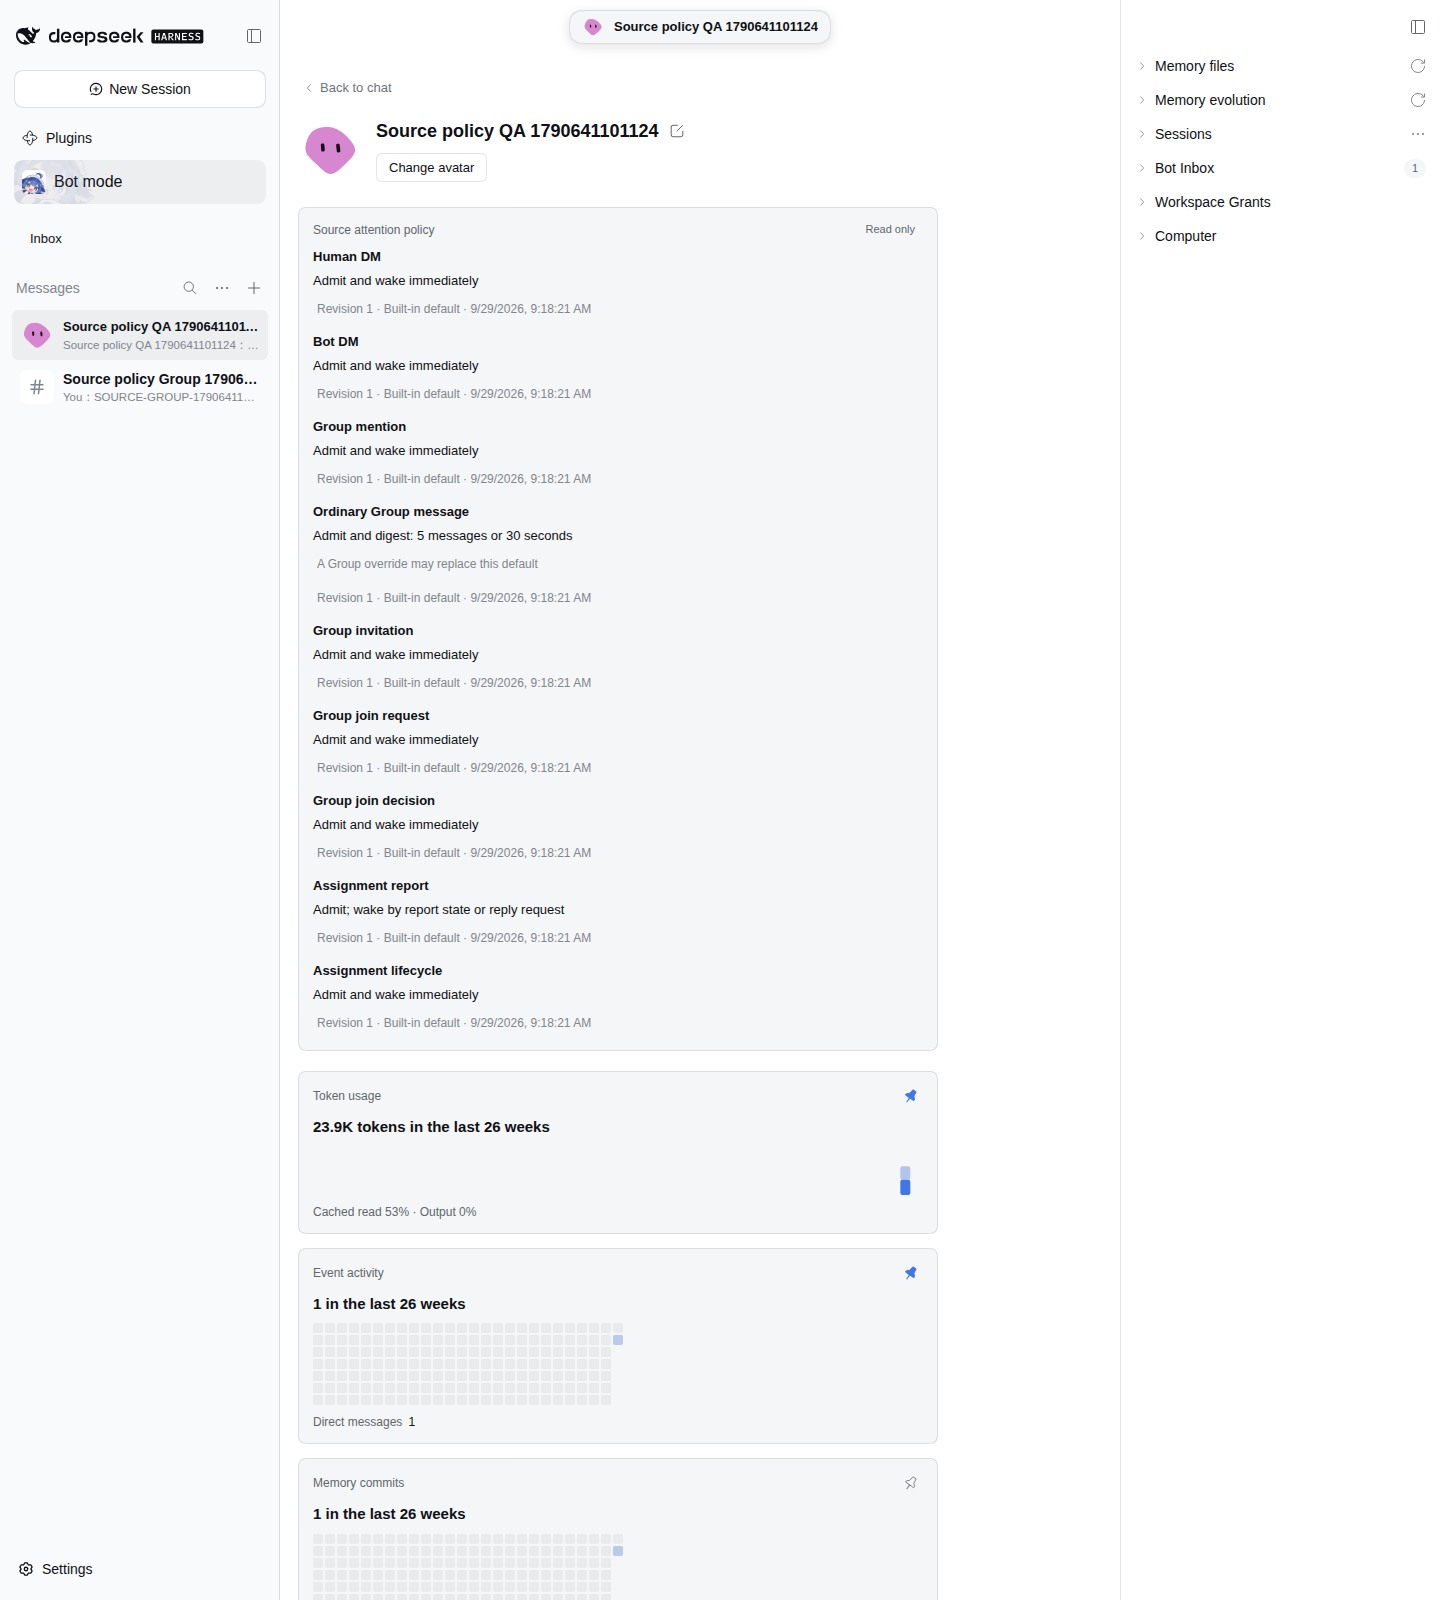
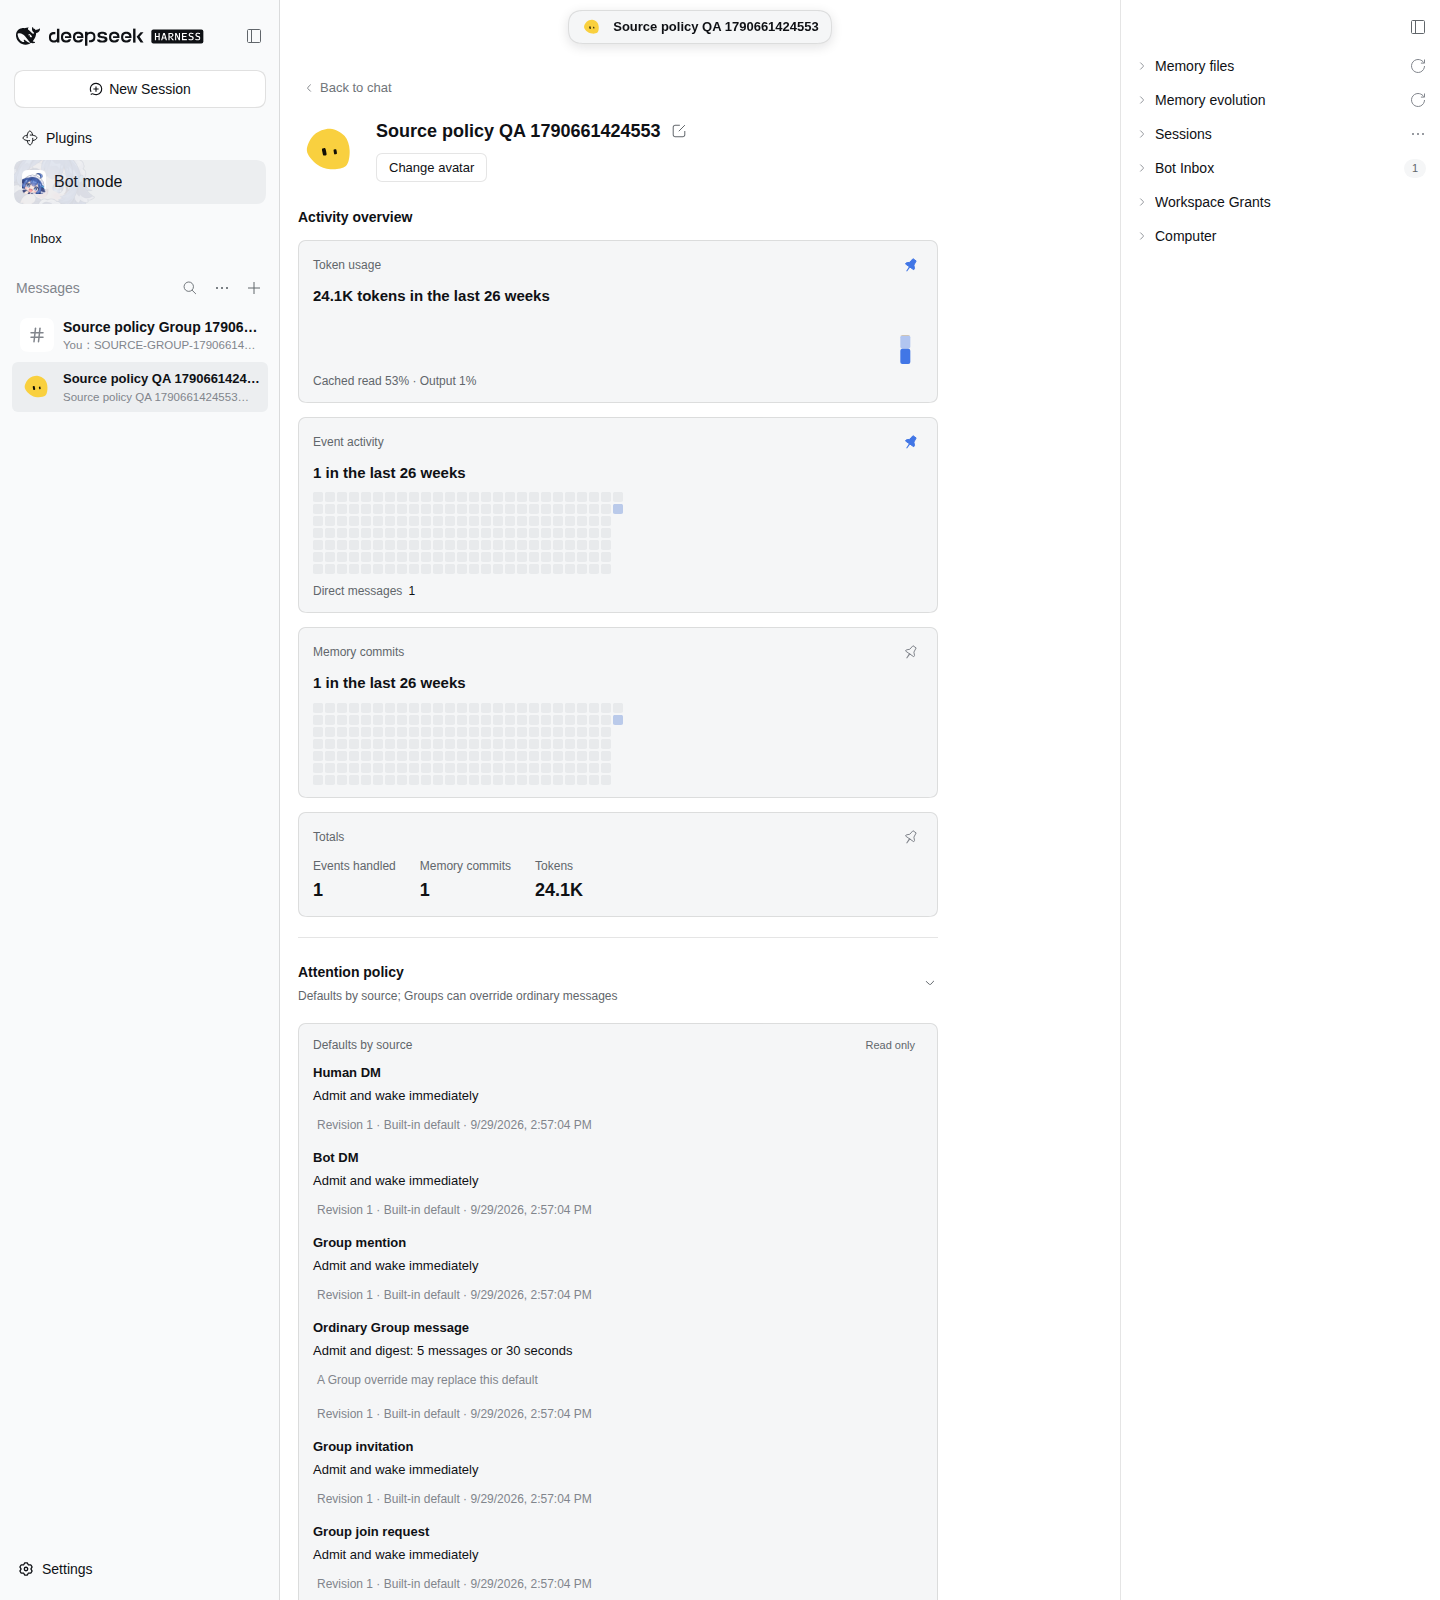
Place source policy below Profile activity
Issue: #366

Agent-Task: codex/local/01a0e445-0c0f-70e1-bad4-fd99c8cfaa21

diff --git a/packages/client/src/client/personabot-profile.tsx b/packages/client/src/client/personabot-profile.tsx
@@ -135,6 +135,7 @@ export function ProfileView({
   const trimmed = draft.trim();
   const blank = trimmed.length === 0;
   const unchanged = trimmed === bot.displayName.trim();
+  const visibleCards = cards.list().filter((card) => card.visible?.(bot) ?? true);
 
   useEffect(() => {
     let active = true;
@@ -309,67 +310,11 @@ export function ProfileView({
           )}
         </div>
       </div>
-      <div className="bh-profile-cards">
-        <section className="bh-profile-card" aria-label={t('sourcePolicy.title')}>
-          <header className="bh-profile-card-head">
-            <span className="bh-profile-card-label">{t('sourcePolicy.title')}</span>
-            <Tag tone="neutral">{t('sourcePolicy.readOnly')}</Tag>
-          </header>
-          {sourcePolicyError ? (
-            <div className="bh-error" role="alert">
-              {t('sourcePolicy.error')}
-            </div>
-          ) : sourcePolicies === undefined ? (
-            <div className="bh-note">{t('sourcePolicy.loading')}</div>
-          ) : (
-            sourcePolicies.map((policy) => (
-              <div key={policy.sourceClass} className="bh-source-policy-row">
-                <strong>
-                  {
-                    {
-                      'human-dm': t('sourcePolicy.humanDm'),
-                      'bot-dm': t('sourcePolicy.botDm'),
-                      'group-mention': t('sourcePolicy.groupMention'),
-                      'group-ordinary': t('sourcePolicy.groupOrdinary'),
-                      'group-invite': t('sourcePolicy.groupInvite'),
-                      'group-join-request': t('sourcePolicy.groupJoinRequest'),
-                      'group-join-decision': t('sourcePolicy.groupJoinDecision'),
-                      'assignment-report': t('sourcePolicy.assignmentReport'),
-                      'assignment-lifecycle': t('sourcePolicy.assignmentLifecycle'),
-                    }[policy.sourceClass]
-                  }
-                </strong>
-                <span>
-                  {policy.wake === 'digest'
-                    ? t('sourcePolicy.admitDigest', {
-                        count: policy.digestCount ?? 0,
-                        seconds: policy.digestIntervalSeconds ?? 0,
-                      })
-                    : policy.wake === 'conditional'
-                      ? t('sourcePolicy.admitConditional')
-                      : t('sourcePolicy.admitImmediate')}
-                </span>
-                {policy.sourceClass === 'group-ordinary' && (
-                  <span className="bh-note">{t('sourcePolicy.groupOverride')}</span>
-                )}
-                <span className="bh-note">
-                  {t('sourcePolicy.revision', { revision: policy.revision })}
-                  {' · '}
-                  {t('sourcePolicy.builtIn')}
-                  {' · '}
-                  {new Date(policy.changedAt).toLocaleString()}
-                </span>
-              </div>
-            ))
-          )}
-        </section>
-      </div>
-      {cards.list().filter((card) => card.visible?.(bot) ?? true).length === 0 ? null : (
-        <div className="bh-profile-cards">
-          {cards
-            .list()
-            .filter((card) => card.visible?.(bot) ?? true)
-            .map((card) => {
+      {visibleCards.length === 0 ? null : (
+        <section className="bh-profile-section" aria-label={t('profile.activitySection')}>
+          <h2 className="bh-profile-section-title">{t('profile.activitySection')}</h2>
+          <div className="bh-profile-cards">
+            {visibleCards.map((card) => {
               const isPinned = pinned.includes(card.id);
               return (
                 <section key={card.id} className="bh-profile-card">
@@ -389,8 +334,78 @@ export function ProfileView({
                 </section>
               );
             })}
-        </div>
+          </div>
+        </section>
       )}
+      <section
+        className="bh-profile-section bh-profile-policy-section"
+        aria-label={t('sourcePolicy.title')}
+      >
+        <details className="bh-profile-policy-details">
+          <summary className="bh-profile-policy-summary">
+            <span className="bh-profile-policy-summary-text">
+              <strong>{t('sourcePolicy.title')}</strong>
+              <span>{t('sourcePolicy.summary')}</span>
+            </span>
+            <IconChevronRightOutlineRegular />
+          </summary>
+          <div className="bh-profile-cards">
+            <section className="bh-profile-card" aria-label={t('sourcePolicy.defaults')}>
+              <header className="bh-profile-card-head">
+                <span className="bh-profile-card-label">{t('sourcePolicy.defaults')}</span>
+                <Tag tone="neutral">{t('sourcePolicy.readOnly')}</Tag>
+              </header>
+              {sourcePolicyError ? (
+                <div className="bh-error" role="alert">
+                  {t('sourcePolicy.error')}
+                </div>
+              ) : sourcePolicies === undefined ? (
+                <div className="bh-note">{t('sourcePolicy.loading')}</div>
+              ) : (
+                sourcePolicies.map((policy) => (
+                  <div key={policy.sourceClass} className="bh-source-policy-row">
+                    <strong>
+                      {
+                        {
+                          'human-dm': t('sourcePolicy.humanDm'),
+                          'bot-dm': t('sourcePolicy.botDm'),
+                          'group-mention': t('sourcePolicy.groupMention'),
+                          'group-ordinary': t('sourcePolicy.groupOrdinary'),
+                          'group-invite': t('sourcePolicy.groupInvite'),
+                          'group-join-request': t('sourcePolicy.groupJoinRequest'),
+                          'group-join-decision': t('sourcePolicy.groupJoinDecision'),
+                          'assignment-report': t('sourcePolicy.assignmentReport'),
+                          'assignment-lifecycle': t('sourcePolicy.assignmentLifecycle'),
+                        }[policy.sourceClass]
+                      }
+                    </strong>
+                    <span>
+                      {policy.wake === 'digest'
+                        ? t('sourcePolicy.admitDigest', {
+                            count: policy.digestCount ?? 0,
+                            seconds: policy.digestIntervalSeconds ?? 0,
+                          })
+                        : policy.wake === 'conditional'
+                          ? t('sourcePolicy.admitConditional')
+                          : t('sourcePolicy.admitImmediate')}
+                    </span>
+                    {policy.sourceClass === 'group-ordinary' && (
+                      <span className="bh-note">{t('sourcePolicy.groupOverride')}</span>
+                    )}
+                    <span className="bh-note">
+                      {t('sourcePolicy.revision', { revision: policy.revision })}
+                      {' · '}
+                      {t('sourcePolicy.builtIn')}
+                      {' · '}
+                      {new Date(policy.changedAt).toLocaleString()}
+                    </span>
+                  </div>
+                ))
+              )}
+            </section>
+          </div>
+        </details>
+      </section>
       {avatarFile === undefined ? null : (
         <PersonaBotAvatarCropModal
           file={avatarFile}

diff --git a/packages/client/src/client/styles.ts b/packages/client/src/client/styles.ts
@@ -1714,6 +1714,66 @@ html[data-botharness-motion='full'] .bh-skeleton-line {
   margin-top: 20px;
   max-width: 640px;
 }
+.bh-profile-section {
+  max-width: 640px;
+  margin-top: 20px;
+}
+.bh-profile-section-title {
+  margin: 0 0 12px;
+  color: var(--dsw-alias-label-primary);
+  font-size: 14px;
+  font-weight: 600;
+}
+.bh-profile-section .bh-profile-cards {
+  margin-top: 0;
+}
+.bh-profile-policy-section {
+  padding-top: 20px;
+  border-top: 1px solid var(--dsw-alias-border-l2);
+}
+.bh-profile-policy-summary {
+  display: flex;
+  align-items: center;
+  justify-content: space-between;
+  gap: 12px;
+  padding: 4px 0;
+  list-style: none;
+  cursor: pointer;
+}
+.bh-profile-policy-summary::-webkit-details-marker {
+  display: none;
+}
+.bh-profile-policy-summary:focus-visible {
+  border-radius: 6px;
+  outline: 2px solid var(--dsw-alias-label-primary);
+  outline-offset: 3px;
+}
+.bh-profile-policy-summary-text {
+  display: flex;
+  flex-direction: column;
+  gap: 4px;
+}
+.bh-profile-policy-summary-text strong {
+  color: var(--dsw-alias-label-primary);
+  font-size: 14px;
+}
+.bh-profile-policy-summary-text span {
+  color: var(--dsw-alias-label-secondary);
+  font-size: 12px;
+}
+.bh-profile-policy-summary > svg {
+  flex: none;
+  width: 16px;
+  height: 16px;
+  color: var(--dsw-alias-label-secondary);
+  transition: transform 150ms ease;
+}
+.bh-profile-policy-details[open] .bh-profile-policy-summary > svg {
+  transform: rotate(90deg);
+}
+.bh-profile-policy-details > .bh-profile-cards {
+  margin-top: 14px;
+}
 .bh-profile-card {
   display: flex;
   flex-direction: column;

diff --git a/packages/client/src/client/locale.ts b/packages/client/src/client/locale.ts
@@ -255,7 +255,10 @@ export const zh = {
   'profile.name.edit': '编辑名称',
   'profile.save': '保存',
   'profile.renameFailed': '重命名失败，请重试。',
-  'sourcePolicy.title': '来源提醒策略',
+  'profile.activitySection': '活动概览',
+  'sourcePolicy.title': '提醒策略',
+  'sourcePolicy.summary': '按来源设置默认值；群聊可单独覆盖普通消息提醒',
+  'sourcePolicy.defaults': '按来源的默认规则',
   'sourcePolicy.readOnly': '只读',
   'sourcePolicy.humanDm': 'Human 私聊',
   'sourcePolicy.botDm': 'Bot 私聊',
@@ -860,7 +863,10 @@ export const en = {
   'profile.name.edit': 'Edit name',
   'profile.save': 'Save',
   'profile.renameFailed': 'Rename failed. Try again.',
-  'sourcePolicy.title': 'Source attention policy',
+  'profile.activitySection': 'Activity overview',
+  'sourcePolicy.title': 'Attention policy',
+  'sourcePolicy.summary': 'Defaults by source; Groups can override ordinary messages',
+  'sourcePolicy.defaults': 'Defaults by source',
   'sourcePolicy.readOnly': 'Read only',
   'sourcePolicy.humanDm': 'Human DM',
   'sourcePolicy.botDm': 'Bot DM',

diff --git a/packages/client/test/personabot-profile.test.ts b/packages/client/test/personabot-profile.test.ts
@@ -176,6 +176,16 @@ describe('PersonaBot Profile surface', () => {
       await act(async () => click(container, '.bh-profile-expand'));
       expect(container.querySelector('.bh-profile-popover')).toBeNull();
       expect(container.querySelector('.bh-profile-view')).not.toBeNull();
+      const sections = container.querySelectorAll('.bh-profile-view > .bh-profile-section');
+      expect(sections.length).toBe(2);
+      expect(sections[0]?.getAttribute('aria-label')).toBe('活动概览');
+      expect(sections[1]?.getAttribute('aria-label')).toBe('提醒策略');
+      const policyDetails = container.querySelector<HTMLDetailsElement>(
+        '.bh-profile-policy-details',
+      );
+      expect(policyDetails?.open).toBe(false);
+      await act(async () => click(container, '.bh-profile-policy-summary'));
+      expect(policyDetails?.open).toBe(true);
       expect(container.querySelector('.bh-profile-view')?.textContent).toContain('Human 私聊');
       expect(container.querySelector('.bh-profile-view')?.textContent).toContain('修订 1');
       expect(container.querySelector('.bh-chat-body')).toBeNull();

diff --git a/CHANGELOG.md b/CHANGELOG.md
@@ -14,7 +14,7 @@ Advances the first PersonaBot workflow with Assignment delivery, shared motion c
 - A PersonaBot can act on the shared Computer once the Human turns on its Computer Access: a curated observe/act/verify tool set with guidance is injected only into that PersonaBot's sessions, the first action of a session asks the Human once (a profile switch can auto-allow), and every observation and action is recorded as a redacted Computer Audit entry ([#386](https://github.com/BotHarness/BotHarness/issues/386), [ADR-0079](docs/adr/0079-adopt-official-computer-use-seam-with-own-provider.md), [ADR-0080](docs/adr/0080-computer-access-is-per-personabot-authorization-is-session-scoped.md)).
 - Group Channels keep the member roster separate from Group settings. Humans can crop a square WebP Group image, rename the Group, search for a PersonaBot to invite, handle pending invitations and join requests in a notification dialog, and manage each member through a menu for message policy or removal, and disband the Group from a secondary menu, with its avatar shown in ordinary, pinned, and collapsed navigation ([#390](https://github.com/BotHarness/BotHarness/issues/390)).
 - A joined PersonaBot can read and change its own Group attention preference with Orchestrator Tools; Human and Bot edits share the same Channel value and leave attributable revision history, while previously admitted messages keep their original policy snapshot ([#365](https://github.com/BotHarness/BotHarness/issues/365)).
-- A PersonaBot Profile now shows all built-in source-class attention defaults and their durable revision source; new Channel and Assignment admissions record the effective source revision while retaining immediate, Group digest, and conditional report delivery ([#366](https://github.com/BotHarness/BotHarness/issues/366)).
+- A PersonaBot Profile now places a collapsible source-class policy section below its activity charts, showing all built-in attention defaults and their durable revision source; new Channel and Assignment admissions record the effective source revision while retaining immediate, Group digest, and conditional report delivery ([#366](https://github.com/BotHarness/BotHarness/issues/366)).
 
 - Group Channel members can choose whether a PersonaBot sees every ordinary message immediately, receives a digest, only wakes for direct mentions, or records messages silently. A direct mention carries bounded pending context from the same Channel, including the oldest unread and nearby messages; the prompt reports omitted messages and later turns advance through the backlog. Explicitly read messages become Processing and settle as Handled on a successful turn or Needs repair on failure; unreturned messages stay pending. New members default to a digest, and a Group member or Bot message avatar opens that Bot's DM ([#364](https://github.com/BotHarness/BotHarness/issues/364)).
 

diff --git a/CHANGELOG.zh.md b/CHANGELOG.zh.md
@@ -14,7 +14,7 @@
 - Human 开启某个 PersonaBot 的 Computer Access 后，该 Bot 即可操作共享 Computer：精选的观察/动作/验证工具集与其指引只注入这个 Bot 的会话；每个会话的首次动作向 Human 询问一次（profile 开关可自动允许）；每次观察与动作都以脱敏的 Computer Audit 记录（[#386](https://github.com/BotHarness/BotHarness/issues/386)、[ADR-0079](docs/adr/0079-adopt-official-computer-use-seam-with-own-provider.md)、[ADR-0080](docs/adr/0080-computer-access-is-per-personabot-authorization-is-session-scoped.md)）。
 - 群聊 Channel 现将成员名单与群设置分开。Human 可裁切正方形 WebP 群头像、改群名、搜索并邀请 PersonaBot，在通知弹窗处理待办邀请和入群申请，并通过成员菜单调整消息提醒策略或移出成员，并从次级菜单解散群聊；群头像在普通、置顶和折叠侧栏中一致显示（[#390](https://github.com/BotHarness/BotHarness/issues/390)）。
 - 已入群的 PersonaBot 可通过 Orchestrator 工具读取及修改自己的群聊提醒偏好；Human 与 Bot 共用同一 Channel 当前值，修改留下可追溯的修订历史，已入队消息继续保留原策略快照（[#365](https://github.com/BotHarness/BotHarness/issues/365)）。
-- PersonaBot 资料页现在显示所有内建来源类别的提醒默认规则及其持久修订来源；新 Channel 与 Assignment 待办记录所用来源规则修订，同时保持即时送达、群消息汇总和报告条件唤醒的既有行为（[#366](https://github.com/BotHarness/BotHarness/issues/366)）。
+- PersonaBot 资料页现在将可折叠的来源策略放在活动图表下方，展示所有内建来源类别的提醒默认规则及其持久修订来源；新 Channel 与 Assignment 待办记录所用来源规则修订，同时保持即时送达、群消息汇总和报告条件唤醒的既有行为（[#366](https://github.com/BotHarness/BotHarness/issues/366)）。
 
 - Group Channel 成员可选择让 PersonaBot 即时处理每条普通消息、定期汇总、仅由直接提及唤醒，或静默记录；直接提及会带入同群有界的待处理上下文，包括最早未读和附近消息，并提示省略数量，后续回合继续推进积压消息。主动读取的消息在回合中显示“处理中”，成功后显示“已处理”，失败则需修复；没有返回的消息保持待处理。新成员默认使用汇总；点击群成员或 Bot 消息头像可打开该 Bot 的私聊（[#364](https://github.com/BotHarness/BotHarness/issues/364)）。
 
